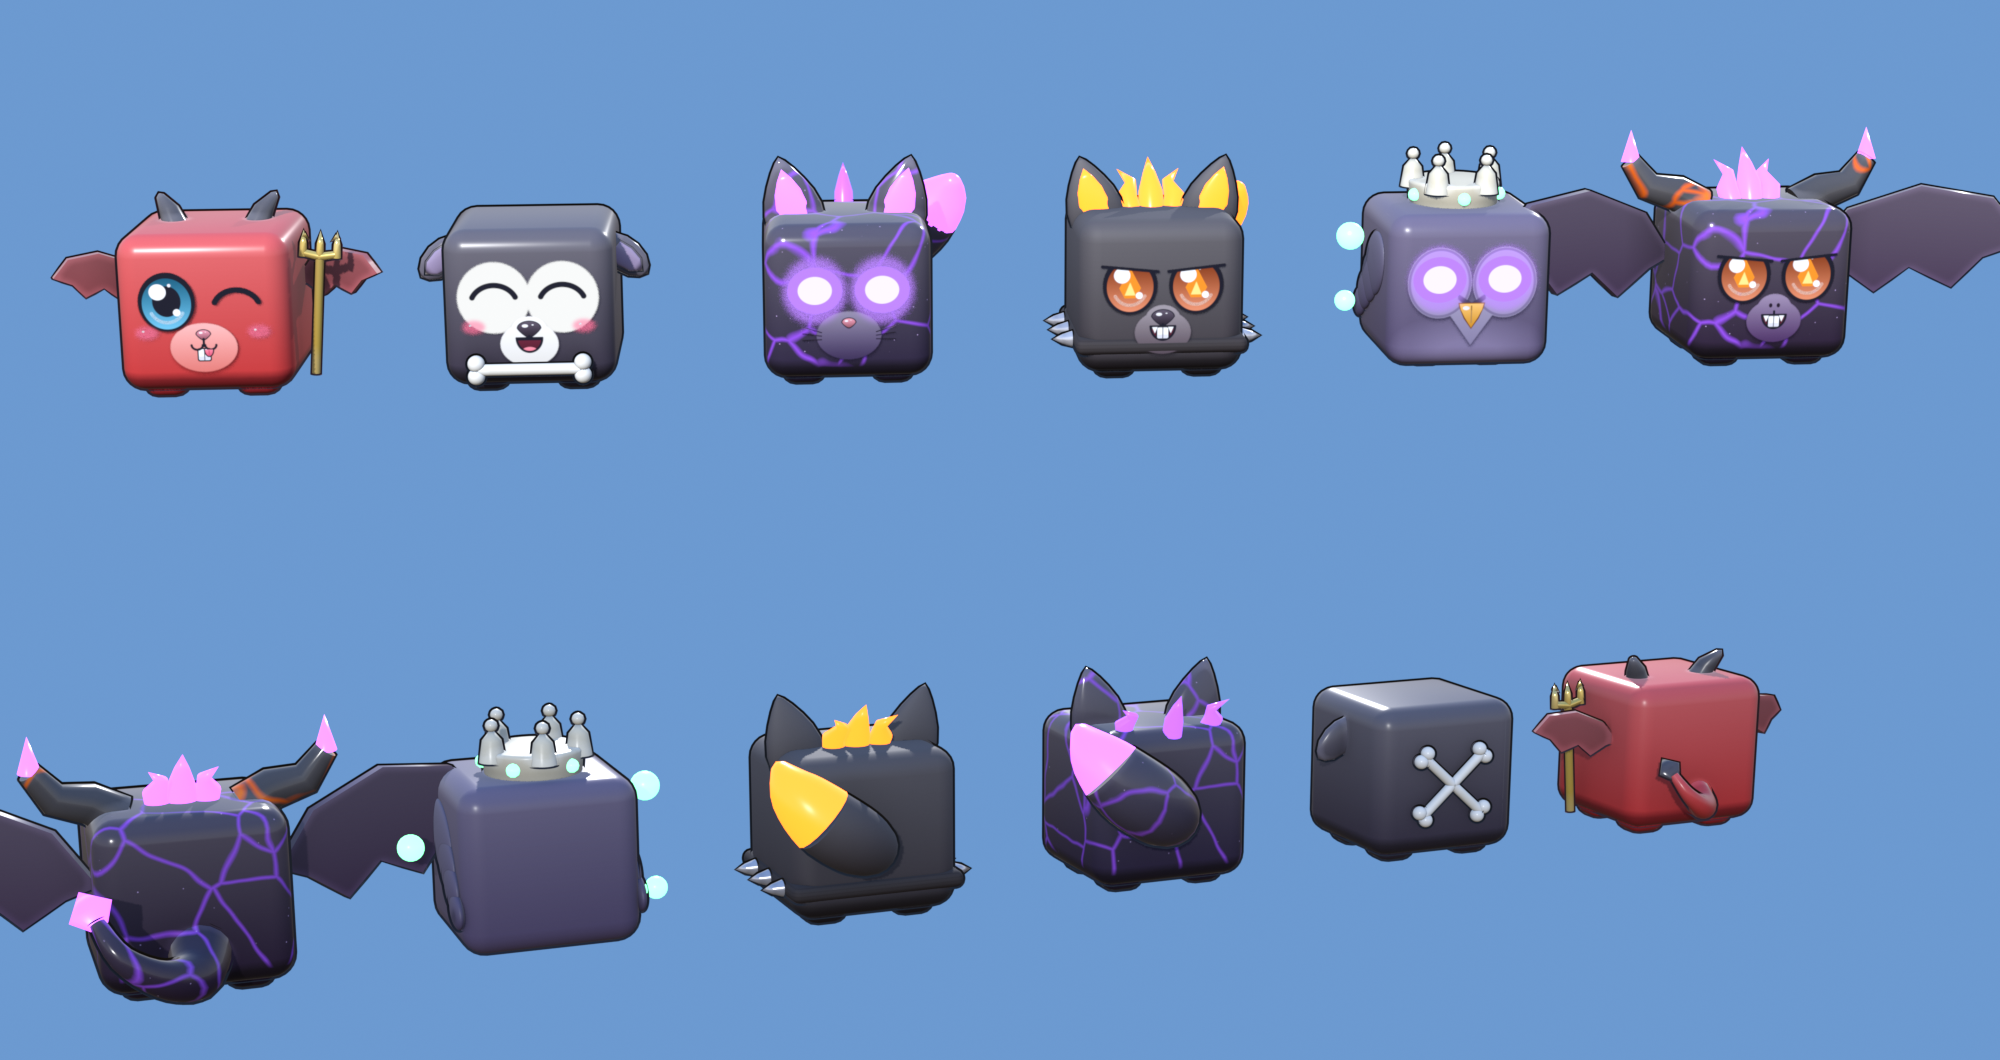
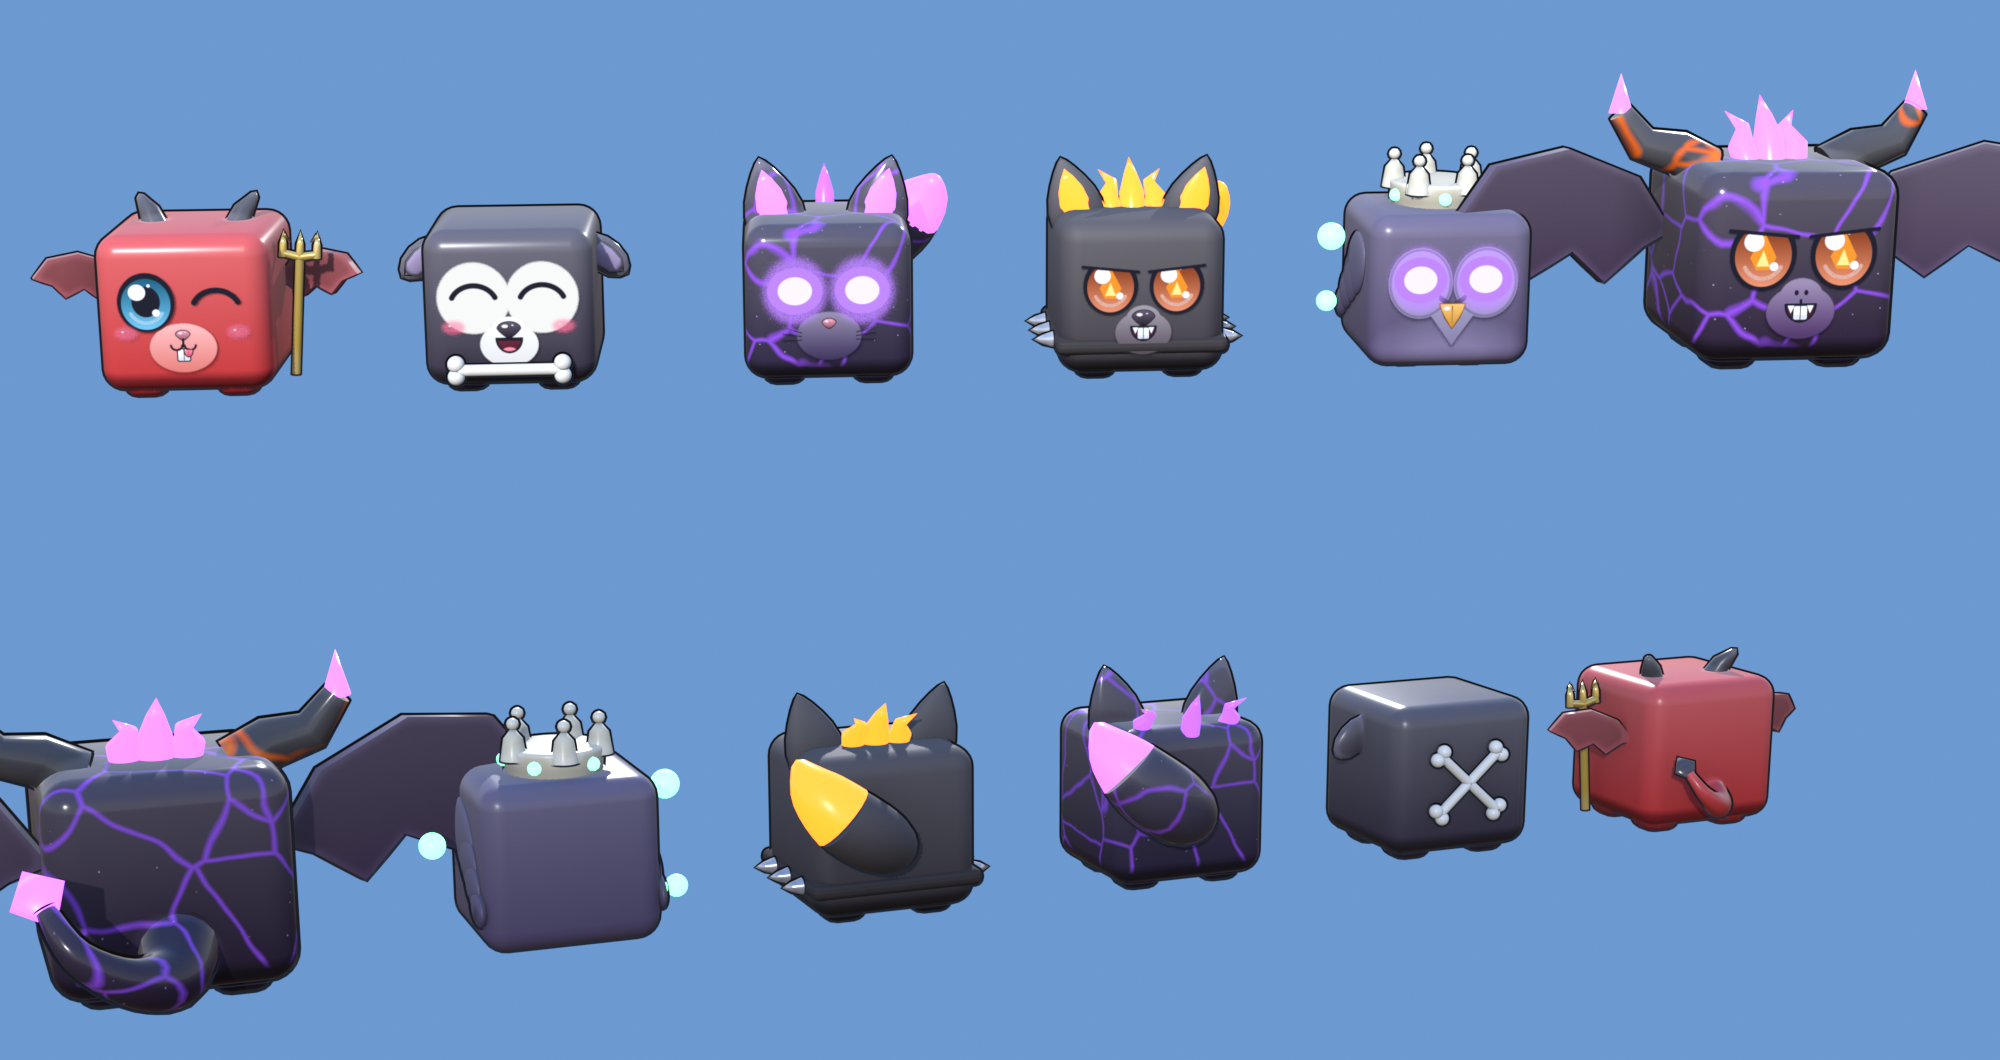
Lift a Sword: Mythic pets 25% bigger

diff --git a/Lift a Sword/Devlog/Lift a Sword 2026-10-14.md b/Lift a Sword/Devlog/Lift a Sword 2026-10-14.md
@@ -44,3 +44,4 @@ Back to [[Lift a Sword]].
 - **Excalibur egg pets built and exported** (ExcaliburEgg): AngelPig (halo, little cherub wings, curly tail), HolyLamb (fleece, blue ribbon with a gold bell), Pegasus (big feathered wings, golden mane and tail), KnightLion (mane, blue cape with gold trim, shield with a cross, sword at its side), SeraphOwl (glowing eyes, halo, gold folded wings and tufts), ExcaliburDragon - Mythic (white and gold, angel wings, gold horns, Excalibur stuck in its back like the stone, blue gem pommel). ![[LS Pets Excalibur Egg.png]]
 - **Void egg pets built and exported** (VoidEgg): Imp (little horns, bat wings, spade tail, gold pitchfork), SkullPup (white skull mask on a dark pup, a bone to chew, crossbones on its back), ShadowCat (void obsidian with violet cracks, glowing eyes, shadow wisps rising off it), Hellhound (head on fire, spiked collar, fire-tipped tail), LichOwl (bone crown, glowing eyes, soul orbs floating round it), DemonLord - Mythic (void obsidian body, huge demon horns with soul-fire tips, purple flame crown, giant bat wings). ![[LS Pets Void Egg.png]]
 - **All 84 pets are built and exported** (eggs 1–16, `assets/models/Pets/Shapes/*.fbx`). Egg 12–16 props added to `pets/props.py`: lightning bolts, storm clouds, eggshell cap, swept dragon horns, sleeping hydra heads, dragon whiskers, stars, jetpack, saucer hat, crescent moon, whale flukes, orbit ring, bell collar, broadsword, shield, trident, cartoon bone, spiked collar, demon horns. No new eye types were needed (the existing faces covered every pet). Next: import into Studio, then the pet system and animation script.
+- **Mythic pets 25% bigger** (your request): ElderDragon, GalaxyDragon, ExcaliburDragon and DemonLord are built 1.25x (`mythic=True` on `@pet`, meshes scaled about the feet), and the egg previews for eggs 13–16 were re-rendered.

diff --git a/Lift a Sword/Design/Pets.md b/Lift a Sword/Design/Pets.md
@@ -7,7 +7,7 @@ tags: [lift-a-sword, design, pets]
 
 **Style:** a chunky rounded cube on tiny nub feet, after your reference pets (2026-10-14). Only the parts that make each animal are added: thick rounded ears with inner ears, horns, wings, smooth tails, halos. Fur markings (socks, bellies, stripes, spots) are painted into the texture, and a thin dark outline goes round the whole pet. The face is painted per pet onto the front, not modelled.
 
-**Size:** every pet has the same body size (you asked for this on 2026-10-14). Animals differ only by their add-ons, and Studio scales all pets by one shared factor.
+**Size:** every pet has the same body size (you asked for this on 2026-10-14). Animals differ only by their add-ons, and Studio scales all pets by one shared factor. **Exception:** the Mythic pets (ElderDragon, GalaxyDragon, ExcaliburDragon, DemonLord) are **25% bigger**, so they stand out (you asked for this on 2026-10-14). The FBX itself is bigger, so the shared Studio factor still works.
 
 **Faces:** every pet gets its own face PNG, all the same size but not looking the same. The eyes are the same size and spot on every pet (you approved them). Variety comes from:
 - the expression (one of the 12 below), the iris colour and pupils;

diff --git a/Lift a Sword/Art/3D Modelling Preferences.md b/Lift a Sword/Art/3D Modelling Preferences.md
@@ -69,7 +69,7 @@ Default for something new: **ask which way you want it.** If you're busy, use te
   - big hard pyramid spikes that look like a crown;
   - pointed cone tufts that look like cat ears or horns.
   Keep patches inside the flat front, and make add-ons soft and rounded (round quills lying back, a curved beak where the mouth is).
-- **Pets in different sizes:** "try to keep the pets the same size" (2026-10-14). Every pet has the same body, and the add-ons make the animal.
+- **Pets in different sizes:** "try to keep the pets the same size" (2026-10-14). Every pet has the same body, and the add-ons make the animal. **Exception, Mythic pets:** "the mythical pets need a clear distinction maybe they are bigger?" then "25% bigger" (2026-10-14). The 4 Mythics (`mythic=True` in `@pet`) are built 1.25x, the whole model scaled about its feet.
 - **Blocky, boxy shapes** (first swords).
 - **Over-detailed realism** that doesn't fit the simulator style.
 - **Props nobody asked for:** spin wheel, daily rewards, fountain and loot chests were modelled and dropped. The spin wheel and daily rewards are UI. Confirm the list before building props.
